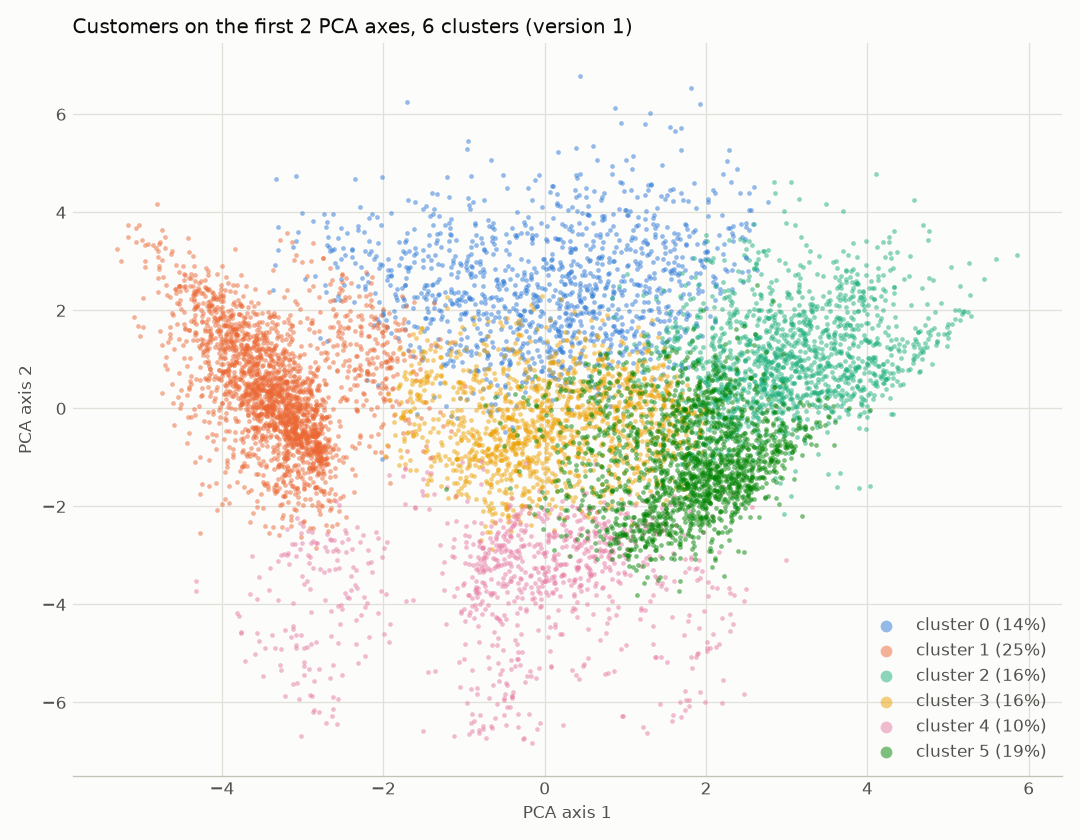
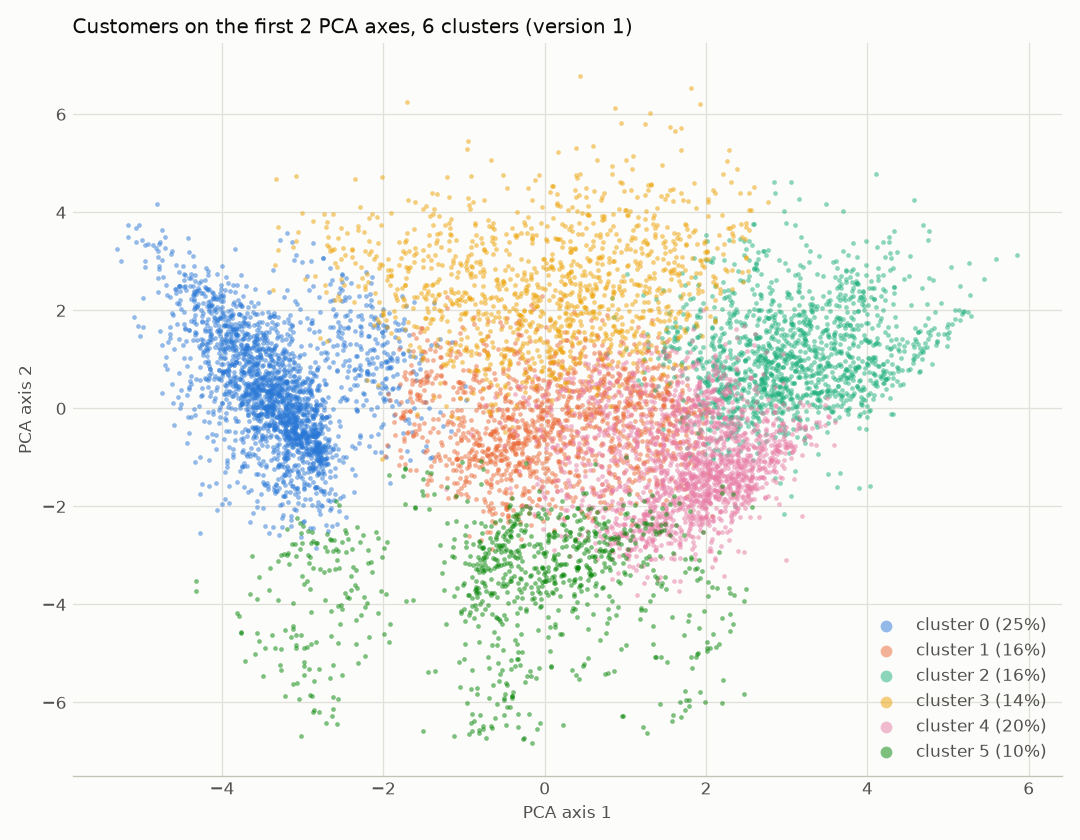
Credit card clustering: n_init=10, renumbered clusters

diff --git a/credit-card-clustering/credit_card_clustering.py b/credit-card-clustering/credit_card_clustering.py
@@ -21,7 +21,7 @@ def get_data_from_csv():
 
 def build_pipeline(version=1):
     if version == 2:
-        return Pipeline([('preprocess', build_preprocess_version_2()), ('model', KMeans(n_clusters=6, random_state=42))])
+        return Pipeline([('preprocess', build_preprocess_version_2()), ('model', KMeans(n_clusters=6, n_init=10, random_state=42))])
     preprocess = ColumnTransformer([
         ('minimum_payments', 
          Pipeline([
@@ -56,7 +56,7 @@ def build_pipeline(version=1):
     ])
 
 
-    return Pipeline([('preprocess', preprocess), ('model', KMeans(n_clusters=6, random_state=42))])
+    return Pipeline([('preprocess', preprocess), ('model', KMeans(n_clusters=6, n_init=10, random_state=42))])
 
 
 # Written by Claude (on request). Version 2: MINIMUM_PAYMENTS (and the one CREDIT_LIMIT blank) filled from the

diff --git a/credit-card-clustering/feature_notes.md b/credit-card-clustering/feature_notes.md
@@ -139,3 +139,14 @@ KMeans with `init='k-means++'` runs once by default (`n_init='auto'` means 1 sta
 | `n_init=10`, seed 42 (best of 10 starts) | 70,860 |
 
 Seed 3 got stuck in a local minimum: from its starting centres, every small move made things worse, though a better arrangement existed. Our seed 42 is at the good solution (best of 10 gives the same inertia), so the profiles stand.
+
+**Decision: `n_init=10` added to KMeans** (both versions). Inertia 70,860; 108 customers (1.2%) change cluster against the single start, the six profiles stay within a few dollars, but the cluster **numbers** change (`plots/pca_clusters.png` regenerated):
+
+| Name | Number before (single start) | Number now (n_init=10) | Share |
+|---|---|---|---|
+| only cash borrowers | 1 | 0 | 25% |
+| frequent buyers, low balance and limit | 5 | 4 | 20% |
+| high usage buyers | 2 | 2 | 16% |
+| moderate users | 3 | 1 | 16% |
+| cash and credit users | 0 | 3 | 14% |
+| inactive | 4 | 5 | 10% |
